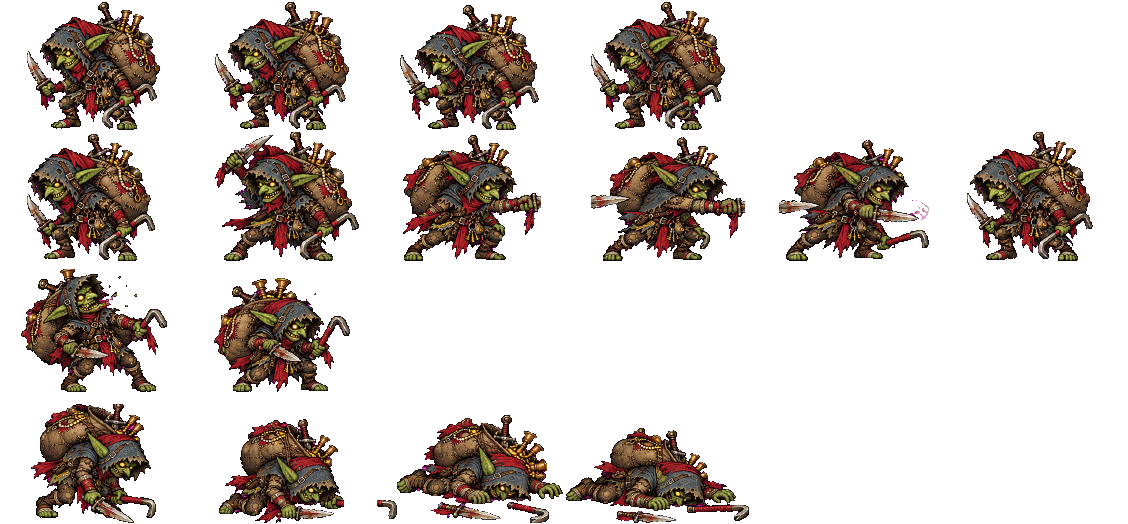
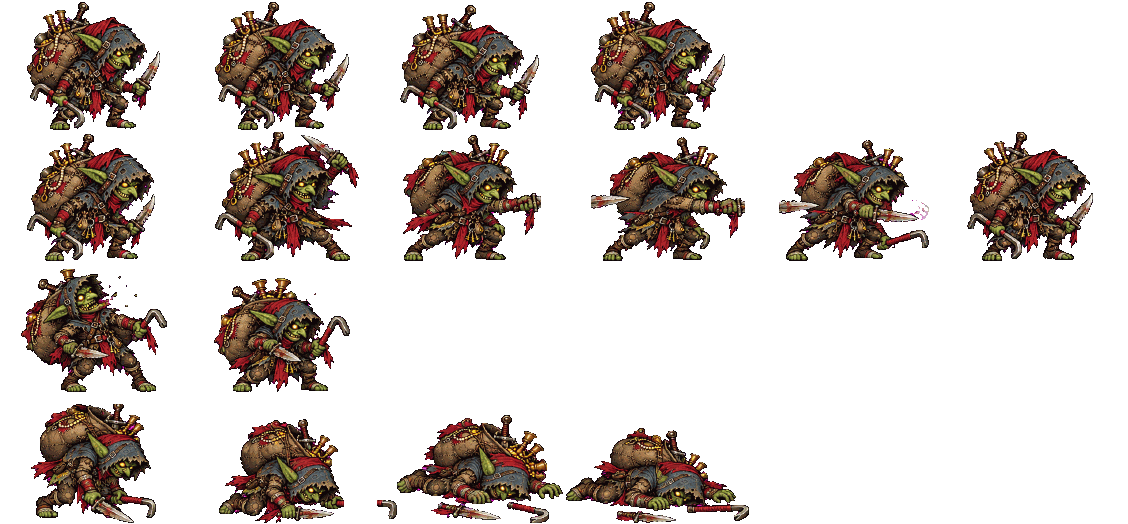
Goblin saqueador: todos los cuadros miran al mismo lado (la lamina mezclaba sentidos)

diff --git a/src/battleStage.js b/src/battleStage.js
@@ -31,7 +31,7 @@ const chibiImgs = {}; // key -> Image (cargando o lista)
 function chibiAnimFor(key){
   const meta = CHIBI[key];
   if(!meta) return null;
-  if(!chibiImgs[key]){ chibiImgs[key] = new Image(); chibiImgs[key].src = `src/assets/chibi/${key}.png?v=7`; }
+  if(!chibiImgs[key]){ chibiImgs[key] = new Image(); chibiImgs[key].src = `src/assets/chibi/${key}.png?v=8`; }
   const img = chibiImgs[key];
   return img.complete && img.naturalWidth > 0 ? new SpriteAnim(img, sheetFromMeta(meta)) : null;
 }

diff --git a/src/game.js b/src/game.js
@@ -2,7 +2,7 @@
 
 import { supabase } from './supabaseClient.js';
 import * as auth from './auth.js';
-import { syncBattleStage, playBattleAnim } from './battleStage.js?v=109';
+import { syncBattleStage, playBattleAnim } from './battleStage.js?v=110';
 import { mountLabyrinth } from './labyrinthMap.js?v=8';
 import { CLASS_SPRITES, ENEMY_SPRITES, playerSpriteFor, playerIllustrationFor, enemySpriteFor, ALLY_TEMPLATE_SPRITES } from './battleSprites.js?v=92';
 

diff --git a/index.html b/index.html
@@ -120,6 +120,6 @@
   <div class="footer-note">Dungeon &amp; Stone — proyecto de fans sin fines de lucro, de inspiración libre en la novela «Sobreviviendo al juego siendo un bárbaro». No está afiliado a sus autores ni editores. Tu progreso se guarda automáticamente en tu cuenta.</div>
 </div>
 
-<script type="module" src="./src/game.js?v=344"></script>
+<script type="module" src="./src/game.js?v=345"></script>
 </body>
 </html>

diff --git a/visor-batalla.html b/visor-batalla.html
@@ -66,7 +66,7 @@
   </div>
 </div>
 <script type="module">
-import { syncBattleStage, playBattleAnim } from './src/battleStage.js?v=109';
+import { syncBattleStage, playBattleAnim } from './src/battleStage.js?v=110';
 import { ENEMY_SPRITES, enemySpriteFor } from './src/battleSprites.js';
 
 const E = (id, name, o={}) => ({ tpl:Object.assign({id, name, frontline:true}, o), name, icon:'👤', hp:1000, maxHP:1000, statuses:[] });

diff --git a/tools/import_chibi.py b/tools/import_chibi.py
@@ -236,6 +236,9 @@ LAMINA_NUEVA_POR_NOMBRE = {
     'capataz de ogro': 'capataz_ogro', 'ogro': 'ogro',
 }
 NUEVA_MIRA_IZQUIERDA = set()
+# Láminas que mezclan sentidos: {tira: {fila: [columnas]}} con los cuadros que miran al revés que el resto.
+# Goblin saqueador (visto en combate por ariochbu, 2026-10-10): el reposo y parte del ataque miran a la izquierda.
+CUADROS_AL_REVES = {'enemigo_goblin_saqueador': {0: [0, 1, 2, 3], 1: [0, 1, 5]}}
 
 
 def new_sheet_id(path):
@@ -613,7 +616,7 @@ def find_frames_grid(alpha, nrows=4, ncols=6):
     return [[bx[:4] for bx in line if bx[4] >= 0.25 * ref_area] for line in rows]
 
 
-def build_strip(im, alpha, rows, flip=False, walk=False):
+def build_strip(im, alpha, rows, flip=False, walk=False, odd=None):
     rgba = np.dstack([np.asarray(im.convert('RGB')), (alpha * 255).astype(np.uint8)])
     src = Image.fromarray(rgba, 'RGBA')
     idle_h = np.median([y1 - y0 for (_x0, y0, _x1, y1) in rows[0]])
@@ -622,9 +625,9 @@ def build_strip(im, alpha, rows, flip=False, walk=False):
     frames = []
     for r, boxes in enumerate(rows):
         line = []
-        for box in boxes:
+        for c, box in enumerate(boxes):
             crop = src.crop(box)
-            if flip:
+            if flip != (c in (odd or {}).get(r, ())):
                 crop = crop.transpose(Image.FLIP_LEFT_RIGHT)
             small = crop.resize((max(1, round(crop.width * k)), max(1, round(crop.height * k))), Image.BOX)
             small.putalpha(small.getchannel('A').point(lambda v: 255 if v >= 140 else 0))
@@ -783,7 +786,7 @@ def process(job):
     if kind == 'enemigo2' and name not in REJILLA_FIJA:
         rows = split_merged_attack(alpha, rows)
     flip = name[8:] in NUEVA_MIRA_IZQUIERDA if kind == 'enemigo2' else name in MIRA_IZQUIERDA
-    sheet, meta = build_strip(im, alpha, rows, flip, walk)
+    sheet, meta = build_strip(im, alpha, rows, flip, walk, CUADROS_AL_REVES.get(name) if kind == 'enemigo2' else None)
     return 'tira', name, f, sheet, meta
 
 
